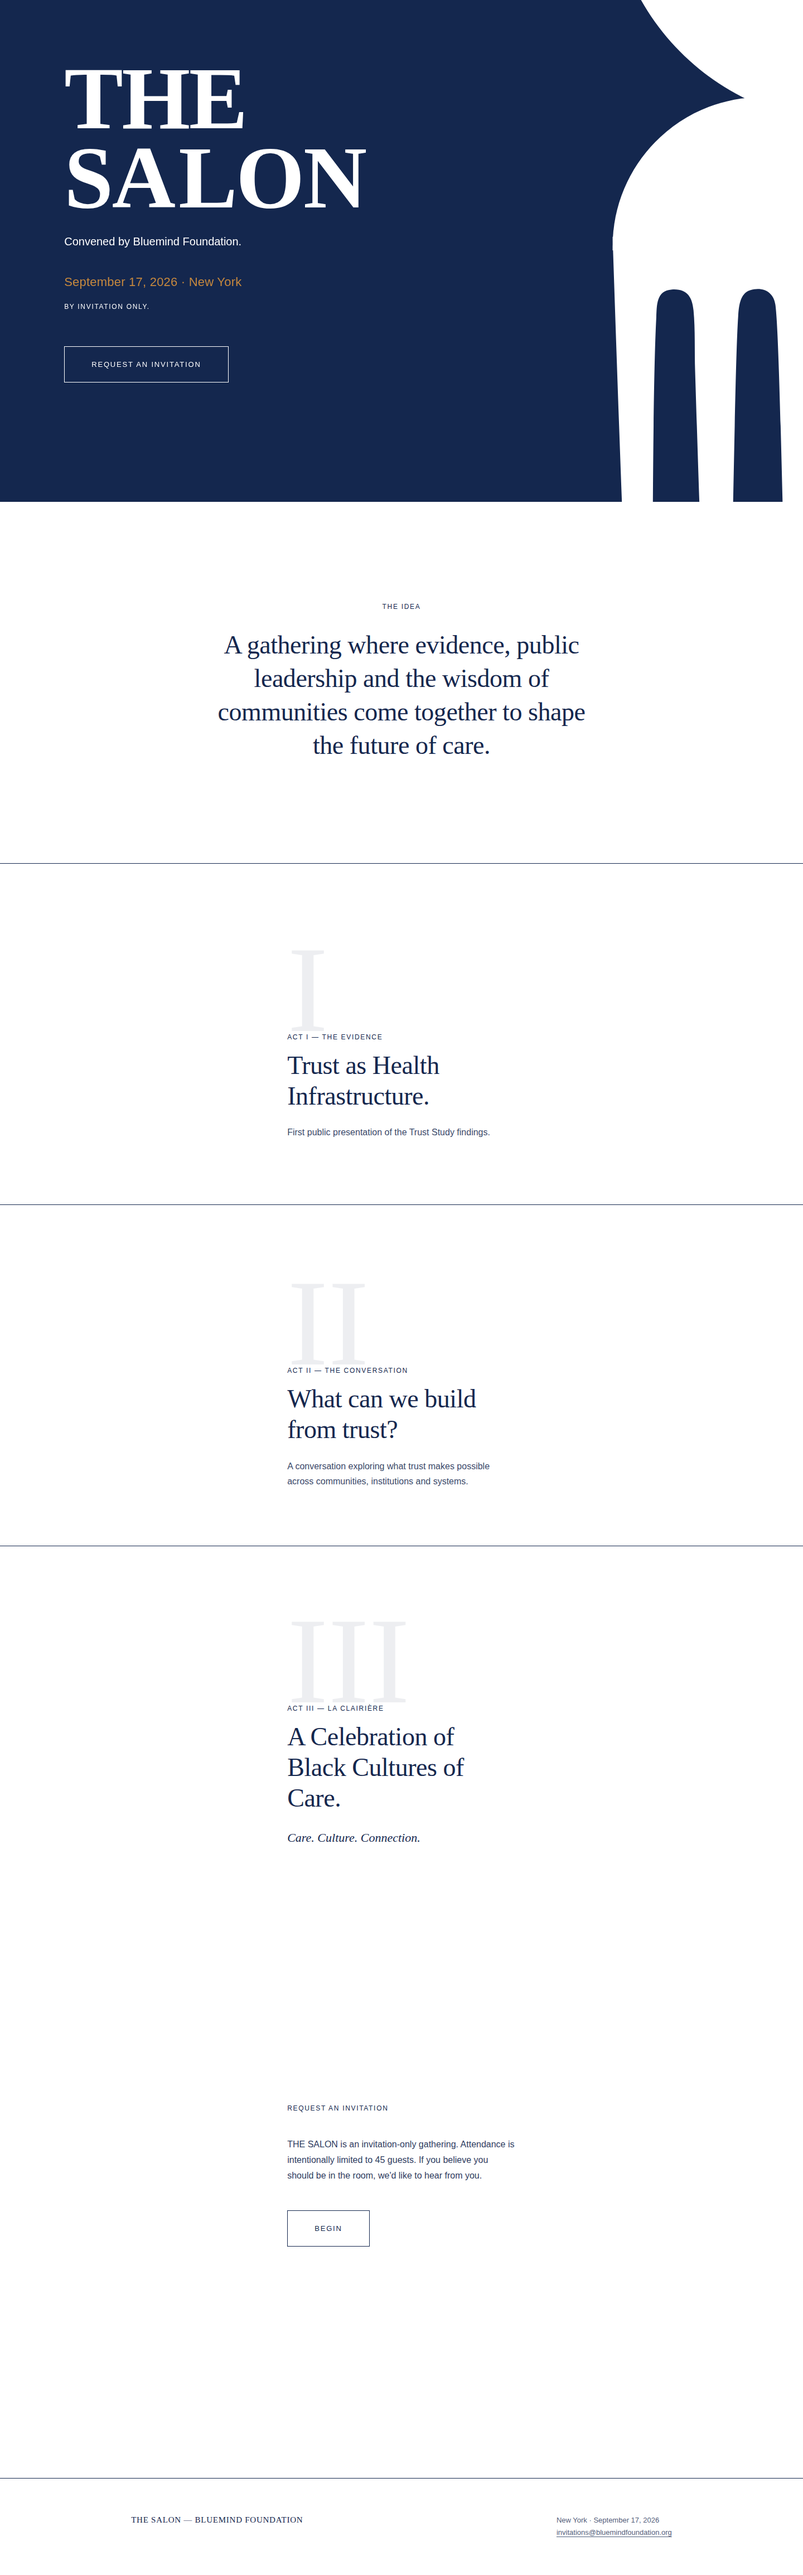
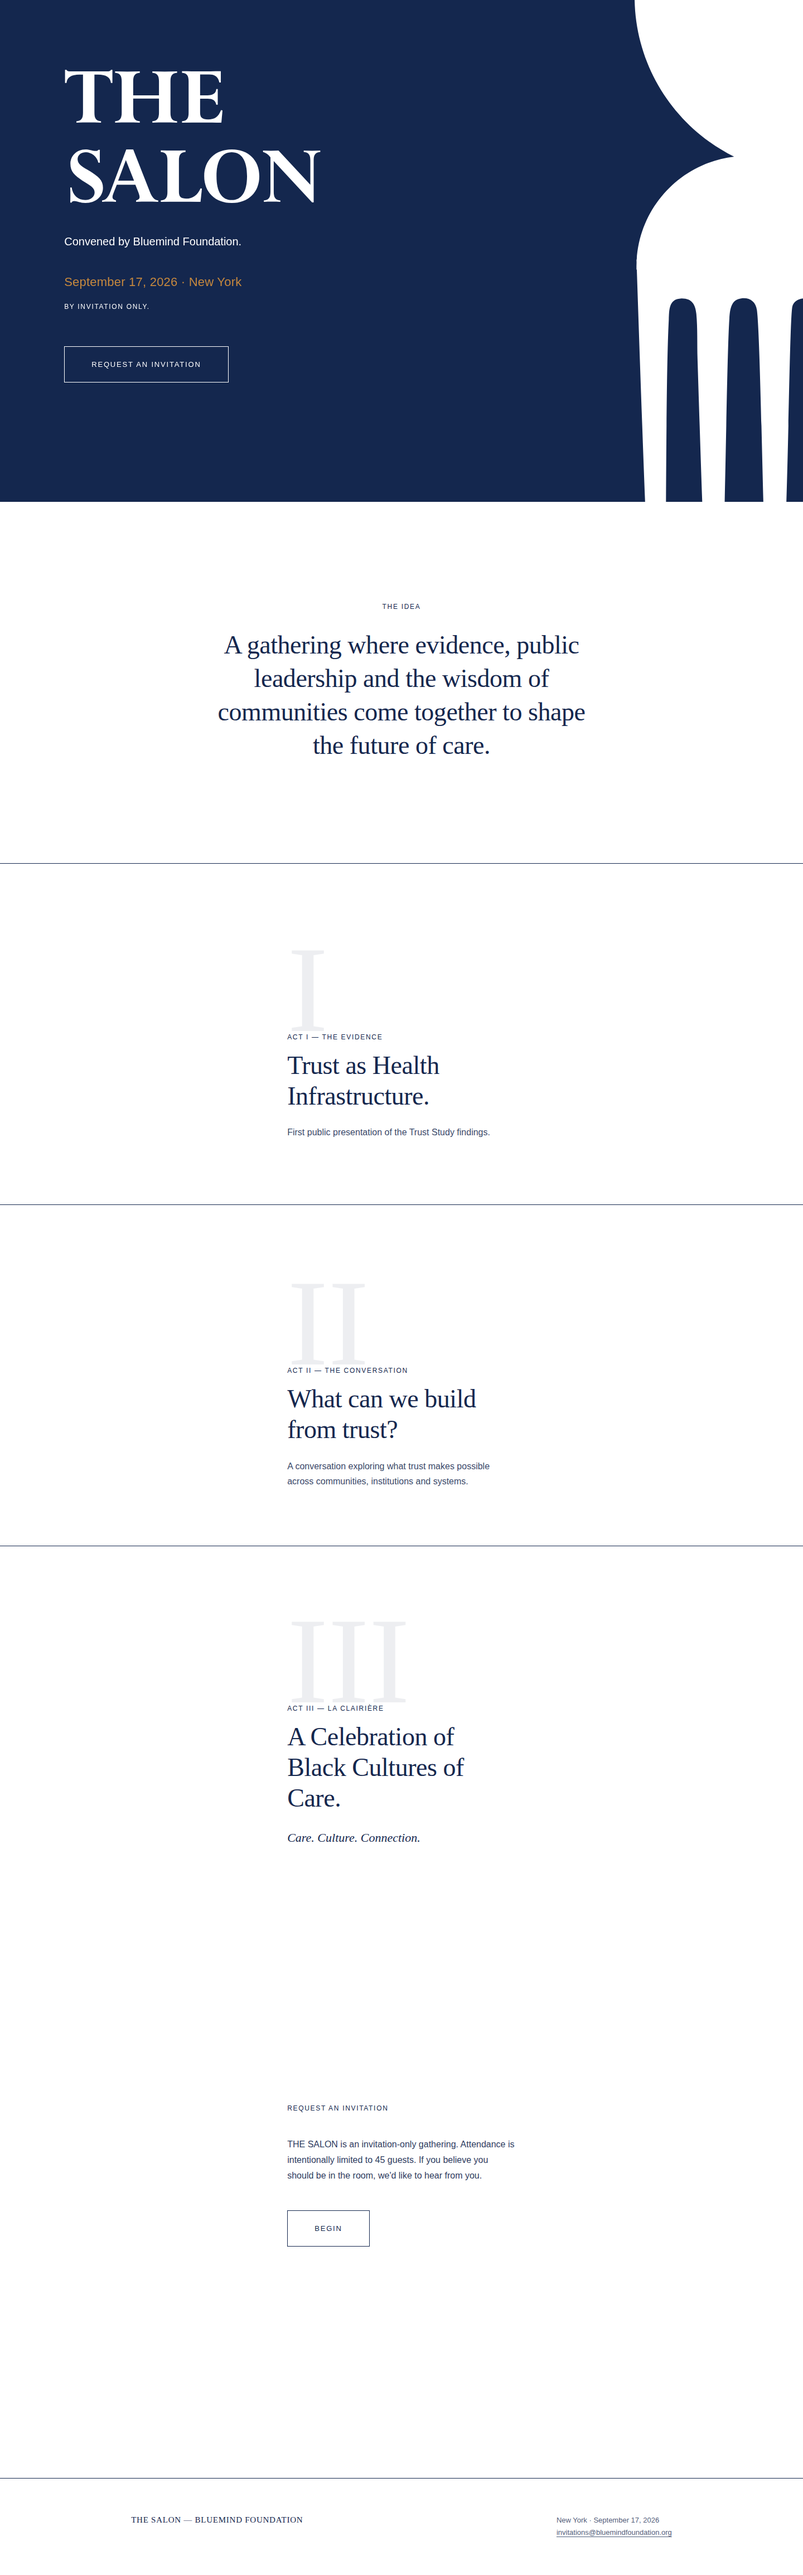
Swap in the single-outline comb SVG and add the real Lapidary 333 typeface
Comb: replace the 3-path/clip-path version (which had a visible gap
between the top wedge and the teeth) with Landry's cleanest export yet
— one continuous outline, no seams. The notch reads directly into the
teeth with no gap, resolving the open question from the previous pass
by construction. Fill stays white (currentColor). Repositioned close
to its natural flush position on both mobile and desktop, since this
version's crop no longer needs to be composed via CSS offsets.

Typography: add fonts/Lapidary333-Bold.otf (client-supplied) via a
page-local @font-face, applied to the "THE SALON" hero wordmark only
(Fraunces stays as fallback and remains in use everywhere else on the
page — Idea, Acts, form, footer — pending confirmation before any
wider rollout).

Changed region(s): [[0.75, 0.0, 0.9062, 0.2183], [0.0938, 0.0312, 0.4688, 0.0935], [0.9062, 0.0935, 1.0, 0.2183]]

diff --git a/landing-page/index.html b/landing-page/index.html
@@ -27,28 +27,14 @@
   <!-- Master visual comb artwork (final, supplied by Landry) — a
        graphic/architectural element bled large across the hero, not a
        logo. Content deliberately minimal: no tagline, no UNGA framing.
-       This is Landry's OWN pre-cropped export (clip-paths baked in by
-       Inkscape — see README "The master visual comb"), not a crop we
-       compose via CSS positioning. Recolored to currentColor (white). -->
+       This is Landry's cleanest export yet — one single continuous
+       outline (no clip-paths, no multi-path gaps) — see README "The
+       master visual comb" for the full version history. Fill recolored
+       to currentColor (white). -->
   <section class="hero hero-v2" id="top">
     <div class="hero-v2-comb-wrap" aria-hidden="true">
-      <svg class="hero-v2-comb" viewBox="0 0 139.07036 420.37173" preserveAspectRatio="xMidYMin meet">
-        <defs>
-          <clipPath clipPathUnits="userSpaceOnUse" id="clipPath17">
-            <rect width="114.02574" height="315.47122" x="-209.69089" y="-121.46496" transform="scale(1,-1)"/>
-          </clipPath>
-          <clipPath clipPathUnits="userSpaceOnUse" id="clipPath18">
-            <rect width="114.02574" height="315.47122" x="-125.09158" y="140.35905" transform="scale(1,-1)"/>
-          </clipPath>
-          <clipPath clipPathUnits="userSpaceOnUse" id="clipPath19">
-            <rect width="114.02574" height="315.47122" x="-192.51498" y="-116.41806" transform="scale(1,-1)"/>
-          </clipPath>
-        </defs>
-        <g transform="translate(-172.59998,-283.7974)">
-          <path d="m 0,0 -181.692,0.831 c 2.68,-80.882 6.713,-193.855 7.905,-196.636 2.234,-5.217 7.778,-3.06 8.433,2.532 1.414,12.053 0.5,119.237 2.578,159.187 0.271,5.21 -0.091,11.654 6.752,12.11 6.588,0.439 8.828,-3.266 9.371,-9.057 0.784,-8.366 0.415,-17.648 0.683,-26.074 1.289,-40.555 4.216,-133.743 5.297,-137.88 0.784,-3.007 2.92,-4.626 6.144,-3.119 2.037,0.951 2.541,6.365 2.719,8.569 1.964,24.44 2.821,131.156 4.497,156.053 0.254,3.779 0.652,9.858 5.153,11.197 5.535,1.646 10.162,-0.721 10.948,-6.305 2.461,-17.484 3.93,-160.791 6.16,-166.884 1.276,-3.488 6.086,-4.36 7.618,-1.071 0.486,1.042 0.997,4.998 1.111,6.389 3.479,42.15 4.059,154.187 5.85,163.451 1.201,6.204 12.394,6.942 14.363,-0.39 0.886,-3.298 0.975,-12.327 1.113,-16.333 1.31,-37.788 3.203,-136.054 4.5,-146.726 0.261,-2.14 0.693,-7 2.715,-7.947 6.434,-3.012 6.675,4.973 6.981,9.154 3.892,53.088 2.653,106.518 5.206,159.721 0.749,6.085 4.289,8.194 10.541,7.179 3.739,-0.605 4.622,-5.266 4.895,-8.331 1.416,-15.902 3.208,-165.355 6.863,-167.599 5.649,-3.468 6.985,4.165 7.299,7.823 3.874,45.092 5.08,153.878 5.889,160.306 1.323,10.507 14.504,10.986 15.438,1.336 0.916,-9.452 -0.348,-117.107 2.563,-159.78 0.136,-2 0.815,-8.367 2.095,-9.474 4.651,-4.023 7.148,5.187 7.572,8.229 1.735,12.465 6.861,116.972 9.616,190.37 C 17.176,0.831 0.01,0.282 0,0" style="fill:currentColor;fill-opacity:1;fill-rule:nonzero;stroke:none" transform="matrix(1.3333333,0,0,-1.3333333,416.32267,439.02147)" clip-path="url(#clipPath19)"/>
-          <path d="M 0,0 C -1.927,0.236 -3.085,-2.085 -1.732,-3.488 L 52.286,-59.58 c 2.225,-2.303 3.464,-5.373 3.485,-8.56 l 0.354,-53.851 c 0.045,-6.843 -5.445,-12.394 -12.269,-12.408 l -34.566,-0.073 -0.254,4.021 c 0.159,0.103 0.329,0.195 0.499,0.309 14.112,9.352 15.915,31.495 4.028,49.473 -11.887,17.979 -32.976,24.972 -47.087,15.621 -14.112,-9.351 -15.915,-31.506 -4.028,-49.473 1.646,-2.498 3.483,-4.768 5.434,-6.82 l -0.677,-13.218 -34.566,-0.073 c -6.824,-0.014 -12.397,5.515 -12.442,12.358 l -0.354,53.85 c -0.02,3.187 1.19,6.263 3.385,8.575 l 53.269,56.315 c 1.335,1.409 0.157,3.725 -1.766,3.481 -51.443,-6.39 -90.971,-50.716 -90.085,-104.166 0.955,-56.957 48.254,-103.032 105.054,-102.377 56.654,0.644 102.115,46.947 101.742,103.882 C 91.094,-49.743 51.183,-6.142 0,0" style="fill:currentColor;fill-opacity:1;fill-rule:nonzero;stroke:none" transform="matrix(1.3333333,0,0,-1.3333333,326.4248,96.652)" clip-path="url(#clipPath18)"/>
-          <path d="m 0,0 h -198.867 v 1.686 c 0,35.728 28.962,64.691 64.69,64.691 H -64.69 C -28.963,66.377 0,37.414 0,1.686 Z" style="fill:currentColor;fill-opacity:1;fill-rule:nonzero;stroke:none" transform="matrix(1.3333333,0,0,-1.3333333,439.22387,445.75067)" clip-path="url(#clipPath17)"/>
-        </g>
+      <svg class="hero-v2-comb" viewBox="0 0 152.08364 526.43707" preserveAspectRatio="xMidYMin meet">
+        <path d="M 152.07372,-3.9628856e-6 H 0.11124356 C 0.01154356,2.759996 -0.02837644,5.529996 0.02144356,8.319996 1.0087336,67.539986 35.892884,118.78999 85.656154,143.51999 c -45.29555,5.28 -80.8777804,42.45001 -83.8197004,88.55 h -0.2194 c 0.0299,0.9 0.0598,1.8 0.0897,2.71 -0.0399,1.15 -0.0897,2.31 -0.0897,3.47 v 2.49 h 0.28921 c 3.93918,118.51 9.6235604,277.3 11.3388504,281.31 3.28098,7.7 11.43857,4.51 12.40591,-3.73 2.0743,-17.77 0.73797,-175.84 3.79956,-234.75 0.3989,-7.68 -0.12964,-17.18 9.93271,-17.86 9.69337,-0.65 12.98432,4.82 13.78213,13.36 1.14685,12.34 0.60833,26.03 1.00723,38.45 1.8948,59.81 6.19299,197.23 7.7886,203.33 1.15682,4.43 4.29819,6.82 9.03518,4.6 2.99178,-1.4 3.73973,-9.39 3.99901,-12.64 2.89206,-36.04 4.14861,-193.41 6.61184,-230.13 0.37896,-5.57 0.95737,-14.53 7.57917,-16.51 8.13764,-2.43 14.948936,1.06 16.095786,9.3 3.62005,25.79 5.78411,237.12 9.05511,246.1 1.88482,5.14 8.9554,6.43 11.2092,1.58 0.71803,-1.54 1.46598,-7.37 1.63551,-9.42 5.11594,-62.16 5.96361,-227.38 8.59638,-241.04 1.28647,-6.66 10.34159,-9.04 16.3052,-5.68 V -3.9628856e-6 Z" style="fill:currentColor;fill-opacity:1"/>
       </svg>
     </div>
 

diff --git a/landing-page/styles.css b/landing-page/styles.css
@@ -20,6 +20,21 @@
 */
 @import url('https://fonts.googleapis.com/css2?family=Fraunces:opsz,wght@9..144,700&display=swap');
 
+/*
+  Lapidary No. 333 Bold — the real brand display face, supplied directly
+  as an OTF file and used for the "THE SALON" hero wordmark only. Not a
+  placeholder: this is the client's own asset. If/when this typeface is
+  adopted for other headings across the site, promote this @font-face
+  into design-system/tokens.css instead of duplicating it per page.
+*/
+@font-face {
+  font-family: 'Lapidary 333';
+  src: url('fonts/Lapidary333-Bold.otf') format('opentype');
+  font-weight: 700;
+  font-style: normal;
+  font-display: swap;
+}
+
 /* ---- Layout primitives ---- */
 
 html {
@@ -165,18 +180,18 @@ section {
   align-items: flex-end;
 }
 
-/* Sized with aspect-ratio (matching the artwork's own pre-cropped
-   139.07:420.37 viewBox) rather than an independent width+height box —
-   the artwork should never be stretched. This crop was baked into the
-   SVG itself by Landry (clip-paths), so unlike the first integration
-   pass, we mostly just scale it up large ("bien zoomé") and position it,
-   rather than composing the crop ourselves via CSS. */
+/* Sized with aspect-ratio (matching the artwork's own 152.08:526.44
+   viewBox) rather than an independent width+height box — the artwork is
+   never stretched. This is a single continuous outline (the notch curve
+   flows straight into the teeth, no multi-path gap), with the notch on
+   its LEFT edge — positioned facing the text block, and its flat top/
+   right edges bleeding off the hero. */
 .hero-v2-comb-wrap {
   position: absolute;
-  top: -4vh;
-  right: -18vw;
-  width: 46vw;
-  aspect-ratio: 139.07036 / 420.37173;
+  top: 0;
+  right: -2vw;
+  width: 26vw;
+  aspect-ratio: 152.08364 / 526.43707;
   color: var(--color-white);
   pointer-events: none;
 }
@@ -201,7 +216,7 @@ section {
 }
 
 .hero-v2-title {
-  font-family: var(--font-display);
+  font-family: 'Lapidary 333', var(--font-display);
   font-weight: 700;
   font-size: clamp(54px, 16vw, 158px);
   line-height: 0.9;
@@ -721,9 +736,9 @@ footer {
   }
 
   .hero-v2-comb-wrap {
-    top: -6vh;
-    right: -6vw;
-    width: 30vw;
+    top: -2vh;
+    right: -1vw;
+    width: 22vw;
     bottom: auto;
     left: auto;
   }

diff --git a/landing-page/README.md b/landing-page/README.md
@@ -65,55 +65,52 @@ short enough to just be scrolled. The only persistent UI element is
 
 ## Hero — the master visual comb
 
-The comb went through three versions on this page — the current one
-(third) is Landry's **own pre-cropped export**, supplied directly as SVG
-and inlined verbatim in `index.html`:
+The comb went through four versions on this page. The current one
+(fourth) is Landry's **cleanest export** — a single continuous outline —
+supplied directly as SVG and inlined verbatim in `index.html`:
 
 1. An original placeholder shape (a rectangle with a circle subtracted
    from its corner, plus tapered teeth) — used before any real artwork
    arrived. If you see a reference anywhere to a "hollow" or "rectangle
    minus a circle," it's stale from this pass.
 2. Landry's full master-visual artwork (a figure-with-raised-arms
-   silhouette transitioning into an afro-pick spine and teeth), `viewBox
-   0 0 275.75048 607.53936`, cropped/positioned via this page's own CSS
-   (`.hero-v2-comb-wrap` offsets).
-3. **Current**: Landry supplied the SAME three paths already cropped —
-   `viewBox="0 0 139.07036 420.37173"`, with three `<clipPath>` elements
-   in `<defs>` (Inkscape's own export of a crop applied in the source
-   file) referenced by each path via `clip-path="url(#clipPath17/18/19)"`.
-   This is *their* crop, not one composed via CSS — the whole point of
-   this version was to use their exact framing, "en intégralité," rather
-   than us re-deciding where to cut it.
+   silhouette transitioning into an afro-pick spine and teeth, three
+   separate `<path>`s), `viewBox 0 0 275.75048 607.53936`, cropped/
+   positioned via this page's own CSS (`.hero-v2-comb-wrap` offsets).
+3. Landry's own pre-cropped export of that same artwork — the same three
+   paths, `viewBox 0 0 139.07036 420.37173`, each wrapped in a
+   `<clipPath>` (Inkscape's own crop export). This version had a visible
+   gap of plain blue between the top wedge and the teeth at the size we
+   were using it at — flagged to the client rather than patched
+   unilaterally, since it wasn't clear whether that was inherent to
+   their crop or a sizing issue on our end.
+4. **Current**: Landry supplied a completely different, single-path SVG
+   — `viewBox 0 0 152.08364 526.43707`, ONE continuous outline (no
+   `<clipPath>`, no multi-path seams). The notch/curve that reads as the
+   comb's "hollow" flows directly into the teeth with no gap — this
+   resolved the version-3 issue by construction, not by us tuning
+   position/size. The notch sits on the shape's LEFT edge (its top and
+   right edges are straight lines), so it's positioned facing the text
+   block, bleeding its flat top/right edges off the hero.
 
-**Color**: the source file's own fill is `#d88d63` (a warm terracotta).
-Preserved as-is in version 2 (read as a deliberate choice at the time),
-then explicitly changed to white in versions 2 and 3 per review — all
-three `<path>` elements use `style="fill:currentColor…"` and
-`.hero-v2-comb-wrap { color: var(--color-white) }` sets it. Change both
-the three `fill:` occurrences in `index.html` and the `color` line in
-`styles.css` together if a future review wants a different color.
+**Color**: the source files' own fill was `#d88d63` (a warm terracotta)
+in versions 2–3; version 4's source used `#333333` (likely just an
+Inkscape export default, not a meaningful color). All versions from the
+white-color request onward use `style="fill:currentColor"` on the path
+plus `.hero-v2-comb-wrap { color: var(--color-white) }` — change both
+together if a future review wants a different color.
 
-**Sizing**: `.hero-v2-comb-wrap` uses `aspect-ratio: 139.07036 /
-420.37173` (matching the *current* SVG's own `viewBox`, not the earlier
-275.75:607.54 one — update both together if the source file changes
-again) plus a `width`, rather than an independent `width` + `height` box.
-Since the crop is now baked into the SVG itself, this page's job is just
-to scale it up ("bien zoomé") and position it — `preserveAspectRatio=
-"xMidYMin meet"` on the `<svg>` means it always renders whole and
-undistorted, never stretched, inside whatever box `.hero-v2-comb-wrap`
-is given. Separate tuned `top`/`right`/`width` values for mobile (base
-rules) vs. `≥900px` (desktop override); on mobile, `right` has to stay
-pushed out far enough (`-18vw` currently) that the oversized shape
-doesn't collide with "Convened by Bluemind Foundation." to its left.
-
-**Known open question, not resolved**: at the current size/position there
-is a visible gap of plain blue between the diagonal wedge shape (near the
-top of the crop) and the teeth below it — i.e. the connecting spine
-doesn't read as continuous at this specific zoom. This might be exactly
-what the source crop looks like at any scale (nothing wrong), or it might
-mean a different width/position would show the connecting piece. Flagged
-to the client rather than adjusted unilaterally — check before assuming
-either way.
+**Sizing**: `.hero-v2-comb-wrap` uses `aspect-ratio: 152.08364 /
+526.43707` (the CURRENT (v4) SVG's own `viewBox` — update this alongside
+the SVG itself if Landry sends another version) plus a `width`, rather
+than an independent `width` + `height` box, so the artwork is never
+stretched (`preserveAspectRatio="xMidYMin meet"` on the `<svg>` handles
+this). Separate tuned `top`/`right`/`width` for mobile (base rules) vs.
+`≥900px` (desktop override) — both currently keep the shape close to its
+natural flush position (`top: 0`, `right` near `0`) since, unlike
+versions 2–3, there's no interesting internal crop left to compose via
+positioning; the "bleed" mostly reads through the flat top/right edges
+naturally leaving frame.
 
 **Do not give `.hero-v2-comb-wrap` both `inset` and an explicit
 `width`/`height` in the same rule** if you touch this again — `inset` sets
@@ -196,17 +193,32 @@ except ochre (see above):
 - **Colors** — `--color-blue` (`#14274E`, "Bluemind Blue") is a
   placeholder hex; swap it in `tokens.css` once Bluemind's real brand file
   arrives. Nothing on this page needs to change.
-- **Typography** — `--font-display` (Fraunces) and `--font-text` (Inter)
-  stand in for Bluemind's real typeface. A separate `@import` in this
-  file adds Fraunces weight 700 (for the monumental hero wordmark), since
-  `tokens.css` only imports up to 600.
+- **Typography** — `--font-text` (Inter) still stands in for Bluemind's
+  real body typeface; `--font-display` (Fraunces) still stands in
+  everywhere it's used (Idea, Acts, form questions, etc.) *except* the
+  hero wordmark, which now uses **Lapidary 333 Bold — the client's real
+  supplied typeface**, not a placeholder (see "The hero wordmark
+  typeface" below).
 - **The comb graphic** — final, not a placeholder. Landry's master visual
-  artwork (see "Hero — the master visual comb" above), fill color
-  preserved exactly as delivered.
+  artwork (see "Hero — the master visual comb" above; now on its 4th
+  supplied version), fill recolored to white per review.
 - **No gradients, shadows, or glossy effects, and no gimmick
   animation/effects** anywhere — only quiet fades/rises (`hero-in`,
   `data-reveal`) and simple opacity/transform transitions, all disabled
   under `prefers-reduced-motion: reduce`.
+
+## The hero wordmark typeface
+
+`fonts/Lapidary333-Bold.otf` is the client's own supplied font file
+(Lapidary No. 333 Bold), loaded via a page-local `@font-face` in
+`styles.css` and applied only to `.hero-v2-title` ("THE SALON"), with
+Fraunces as the fallback (`font-family: 'Lapidary 333', var(--font-
+display);`). Everything else on the page (Idea, Acts, form, footer)
+still uses Fraunces/Inter — this typeface hasn't been rolled out beyond
+the hero wordmark. If it should apply more broadly, add more `@font-face`
+weights as they're supplied and update the relevant selectors — don't
+just swap `--font-display` globally without confirming, since Fraunces
+elsewhere hasn't been reviewed against this typeface.
 
 ## Files
 
@@ -215,13 +227,15 @@ landing-page/
 ├── index.html            the page (semantic HTML, one long scroll)
 ├── styles.css             layout / component styles — imports the design system
 ├── README.md              this file
+├── fonts/
+│   └── Lapidary333-Bold.otf   client-supplied, hero wordmark only (see above)
 ├── preview-desktop.png     Playwright screenshot, 1440px viewport, full page
 └── preview-mobile.png      Playwright screenshot, 390px viewport, full page
 ```
 
 `index.html` links `../design-system/tokens.css` directly, treated as a
 read-only input and never edited here. The comb SVG is inlined directly
-in `index.html` with its own fixed `#d88d63` fill — this page no longer
+in `index.html` with `fill:currentColor` (white) — this page no longer
 references the shared `design-system/comb-placeholder.svg` at all (that
 placeholder is still used by the other four workstreams — poster,
 carousel, invitations, social-toolkit, event-experience/press-kit — which
